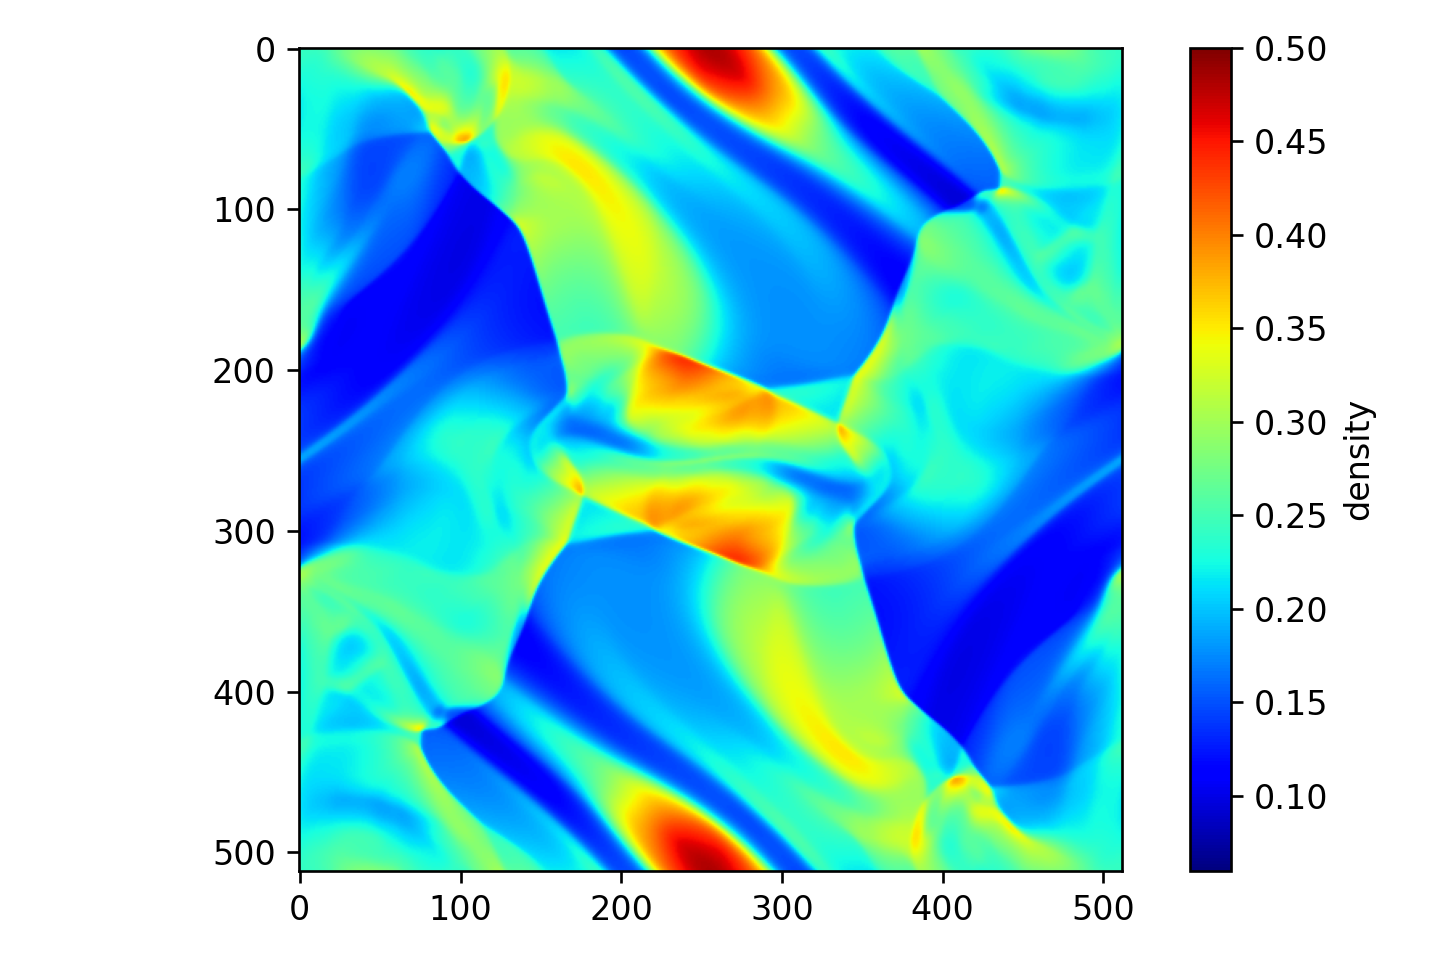
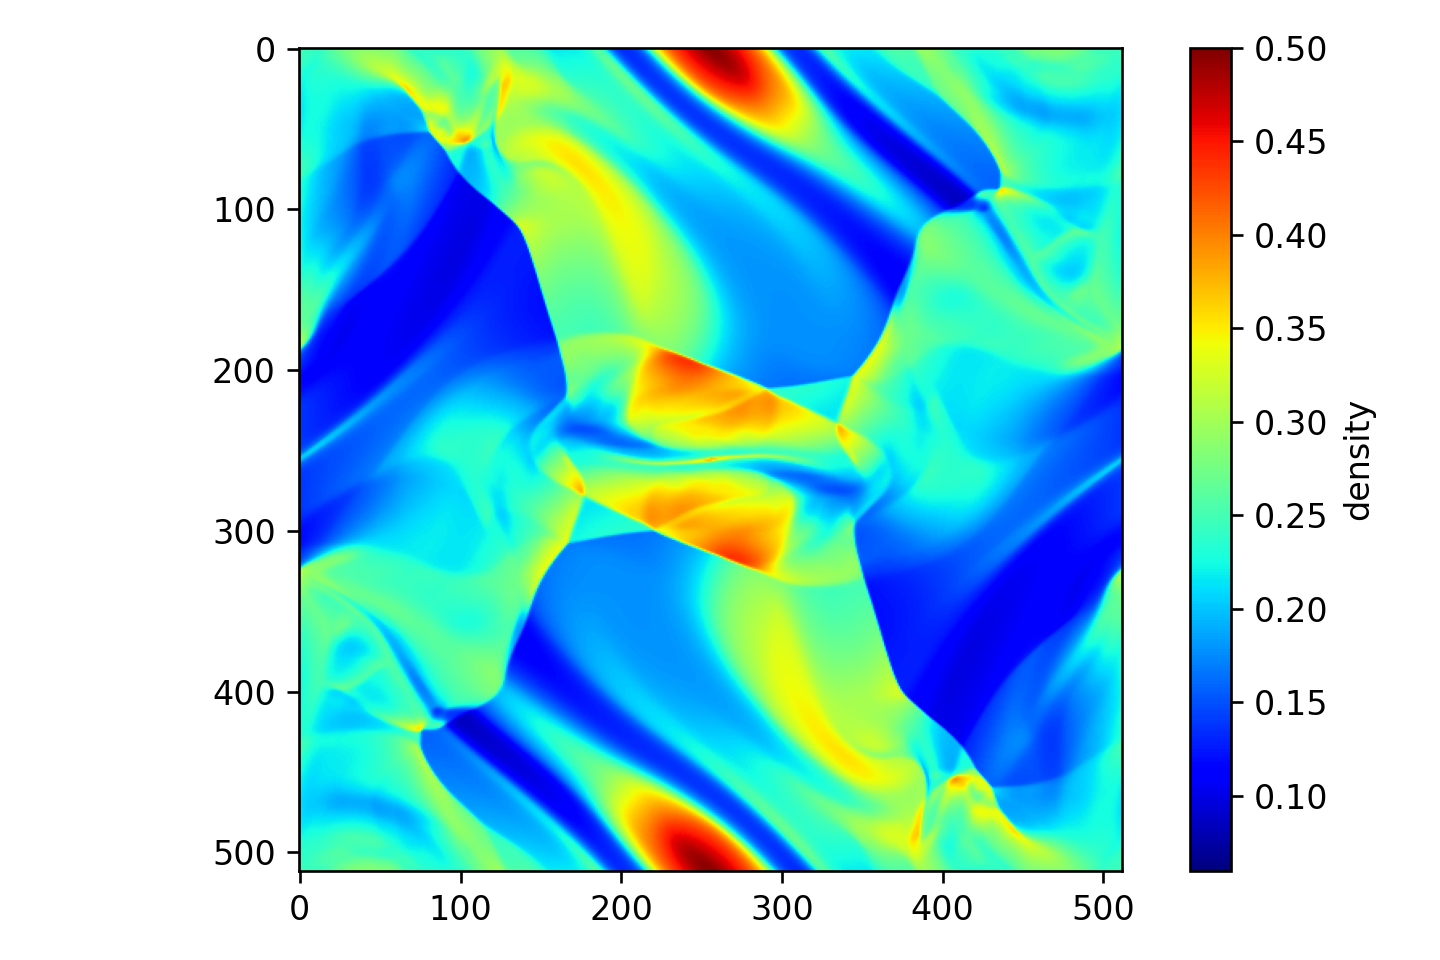
add hlld riemann solver

diff --git a/adirondax/hydro/mhd2d.py b/adirondax/hydro/mhd2d.py
@@ -421,6 +421,57 @@ def get_flux_hlld(
     return flux_Mass, flux_Momx, flux_Momy, flux_Energy, flux_By
 
 
+def get_flux(
+    rho_L,
+    rho_R,
+    vx_L,
+    vx_R,
+    vy_L,
+    vy_R,
+    P_L,
+    P_R,
+    Bx_L,
+    Bx_R,
+    By_L,
+    By_R,
+    gamma,
+    riemann_solver_type,
+):
+    if riemann_solver_type == "hlld":
+        return get_flux_hlld(
+            rho_L,
+            rho_R,
+            vx_L,
+            vx_R,
+            vy_L,
+            vy_R,
+            P_L,
+            P_R,
+            Bx_L,
+            Bx_R,
+            By_L,
+            By_R,
+            gamma,
+        )
+    else:
+        # default
+        return get_flux_llf(
+            rho_L,
+            rho_R,
+            vx_L,
+            vx_R,
+            vy_L,
+            vy_R,
+            P_L,
+            P_R,
+            Bx_L,
+            Bx_R,
+            By_L,
+            By_R,
+            gamma,
+        )
+
+
 def hydro_mhd2d_timestep(rho, vx, vy, P, bx, by, gamma, dx):
     """Calculate the simulation timestep based on CFL condition"""
 
@@ -434,7 +485,7 @@ def hydro_mhd2d_timestep(rho, vx, vy, P, bx, by, gamma, dx):
     return dt
 
 
-def hydro_mhd2d_fluxes(rho, vx, vy, P, bx, by, gamma, dx, dt):
+def hydro_mhd2d_fluxes(rho, vx, vy, P, bx, by, gamma, dx, dt, riemann_solver_type):
     """Take a simulation timestep"""
 
     # get Conserved variables
@@ -497,7 +548,7 @@ def hydro_mhd2d_fluxes(rho, vx, vy, P, bx, by, gamma, dx, dt):
     By_XL, By_XR, By_YL, By_YR = extrapolate_to_face(By_prime, By_dx, By_dy, dx)
 
     # compute fluxes
-    flux_Mass_X, flux_Momx_X, flux_Momy_X, flux_Energy_X, flux_By_X = get_flux_llf(
+    flux_Mass_X, flux_Momx_X, flux_Momy_X, flux_Energy_X, flux_By_X = get_flux(
         rho_XR,
         rho_XL,
         vx_XR,
@@ -511,8 +562,9 @@ def hydro_mhd2d_fluxes(rho, vx, vy, P, bx, by, gamma, dx, dt):
         By_XR,
         By_XL,
         gamma,
+        riemann_solver_type,
     )
-    flux_Mass_Y, flux_Momy_Y, flux_Momx_Y, flux_Energy_Y, flux_Bx_Y = get_flux_llf(
+    flux_Mass_Y, flux_Momy_Y, flux_Momx_Y, flux_Energy_Y, flux_Bx_Y = get_flux(
         rho_YR,
         rho_YL,
         vy_YR,
@@ -526,6 +578,7 @@ def hydro_mhd2d_fluxes(rho, vx, vy, P, bx, by, gamma, dx, dt):
         Bx_YR,
         Bx_YL,
         gamma,
+        riemann_solver_type,
     )
 
     # update solution

diff --git a/adirondax/simulation.py b/adirondax/simulation.py
@@ -23,12 +23,21 @@ class Simulation:
         # start from default simulation parameters and update with user params
         self._params = set_up_parameters(params)
 
-        # additional checks
+        # additional checks (TODO: move these into seperate function(s))
         if len(self.resolution) != len(self.box_size):
             raise ValueError("'resolution' and 'box_size' must have same shape")
 
         if self.dim == 3:
             raise NotImplementedError("3D is not yet implemented.")
+
+        if self.params["hydro"]["riemann_solver"] not in ["llf", "hlld"]:
+            raise ValueError("riemann solver does not exist")
+
+        if (
+            self.params["hydro"]["riemann_solver"] == "hlld"
+            and not self.params["physics"]["magnetic"]
+        ):
+            raise ValueError("'hlld' riemann solver only exists for magnetic=True")
 
         # print info
         if jax.process_index() == 0:
@@ -176,6 +185,7 @@ class Simulation:
 
         gamma = self.params["hydro"]["eos"]["gamma"]
         cfl = self.params["hydro"]["cfl"]
+        riemann_solver_type = self.params["hydro"]["riemann_solver"]
 
         m_per_hbar = 1.0  # XXX
 
@@ -257,6 +267,7 @@ class Simulation:
                         gamma,
                         dx,
                         dt,
+                        riemann_solver_type,
                     )
                     new_state["rho"] = rho
                     new_state["vx"] = vx

diff --git a/adirondax/utils.py b/adirondax/utils.py
@@ -4,7 +4,7 @@ import importlib.util
 from pathlib import Path
 import importlib.resources
 import json
-from importlib.metadata import version
+from importlib.metadata import version, PackageNotFoundError
 import jax
 
 
@@ -30,7 +30,7 @@ def print_distributed_info():
 
 def set_up_parameters(user_overwrites):
     # first load the default params
-    params_path = importlib.resources.files("adirondax") / "params_default.json"
+    params_path = importlib.resources.files("adirondax") / "defaults.json"
     with params_path.open("r", encoding="utf-8") as f:
         params = json.load(f)
 
@@ -41,7 +41,10 @@ def set_up_parameters(user_overwrites):
     params = _update_dicts(params, user_overwrites)
 
     # detect adirondax version
-    params["version"] = version("adirondax")
+    try:
+        params["version"] = version("adirondax")
+    except PackageNotFoundError:
+        params["version"] = "unknown"
 
     return params
 

diff --git a/examples/orszag_tang/orszag_tang.py b/examples/orszag_tang/orszag_tang.py
@@ -44,6 +44,7 @@ def set_up_simulation():
         "hydro": {
             "eos": {"type": "ideal", "gamma": gamma},
             "cfl": 0.6,
+            "riemann_solver": "hlld",
         },
     }
 

diff --git a/examples/orszag_tang/README.md b/examples/orszag_tang/README.md
@@ -10,7 +10,7 @@ Usage:
 python orszag_tang.py
 ```
 
-Takes around XXXXXXXX seconds to run on my macbook (cpu).
+Takes around 55 seconds ('llf') / 105 seconds ('hlld') to run on my macbook (cpu).
 
 ## Simulation snapshots
 
